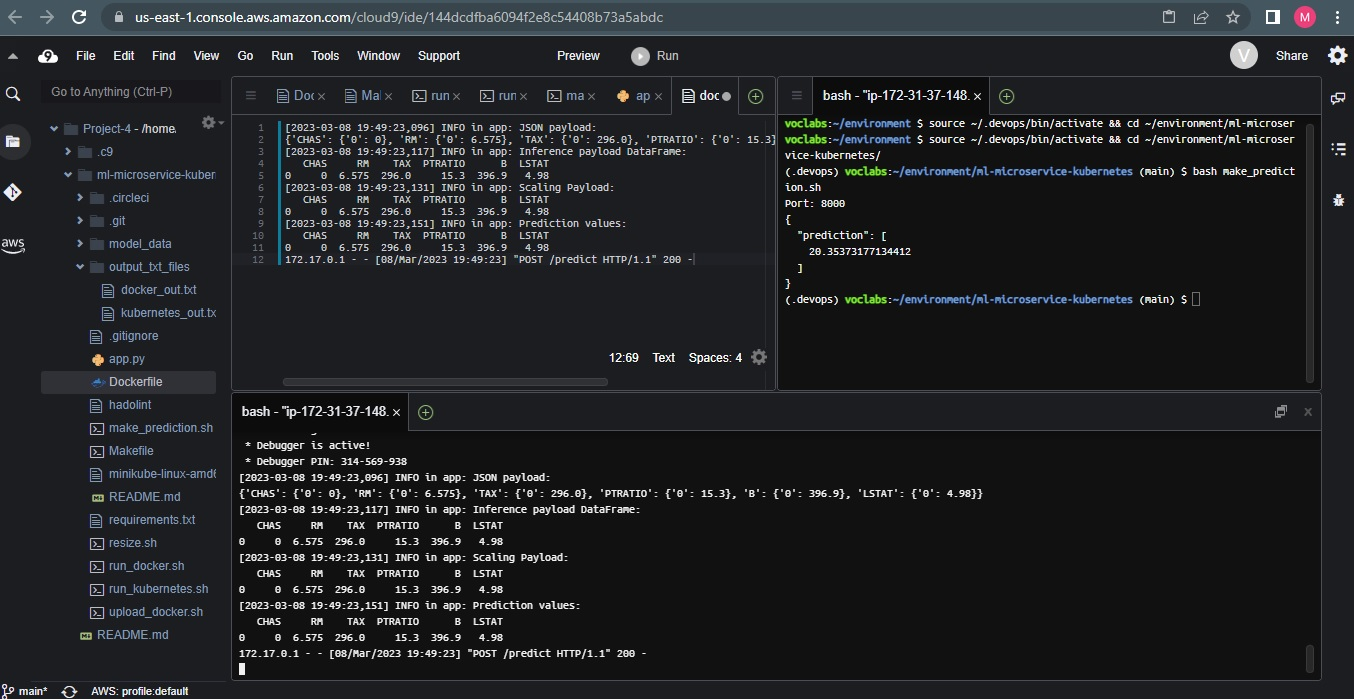
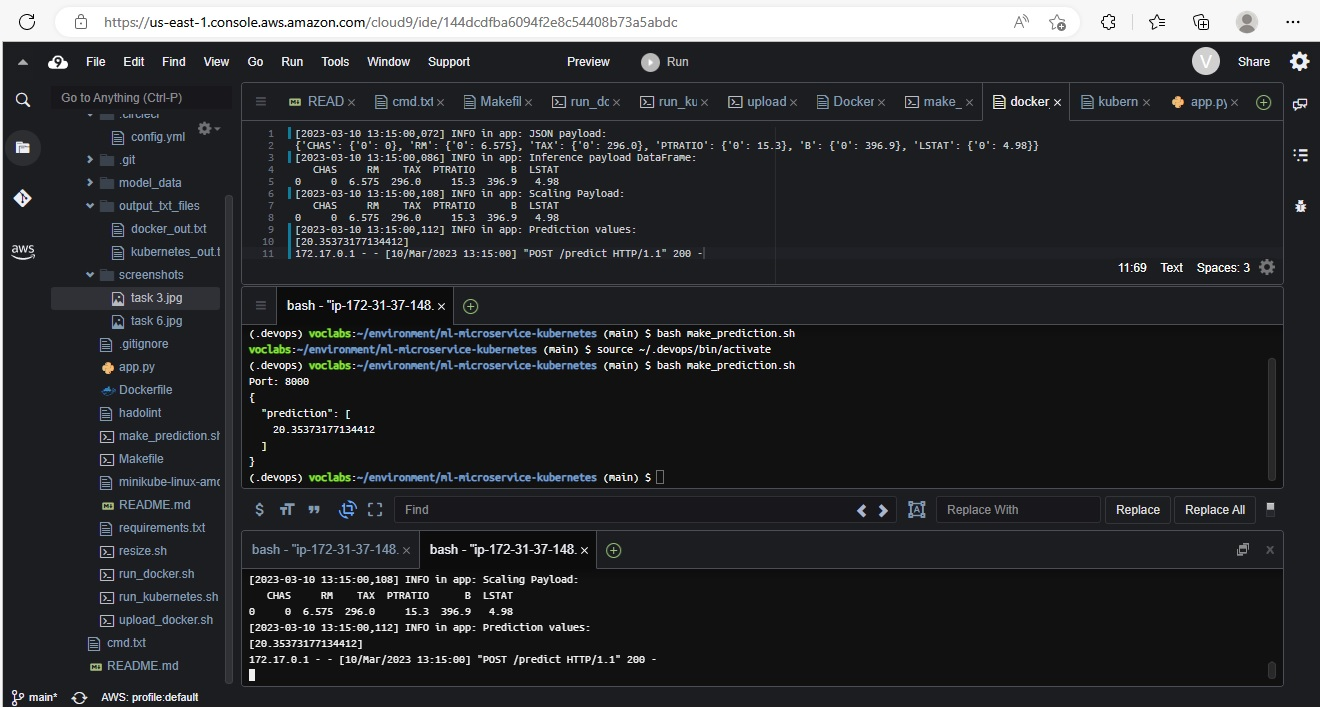
fix prediction output

diff --git a/app.py b/app.py
@@ -63,7 +63,7 @@ def predict():
     # get an output prediction from the pretrained model, clf
     prediction = list(clf.predict(scaled_payload))
     # Log the output prediction value
-    LOG.info(f"Prediction values: \n{inference_payload}")
+    LOG.info(f"Prediction values: \n{prediction}")
     
     return jsonify({'prediction': prediction})
 
